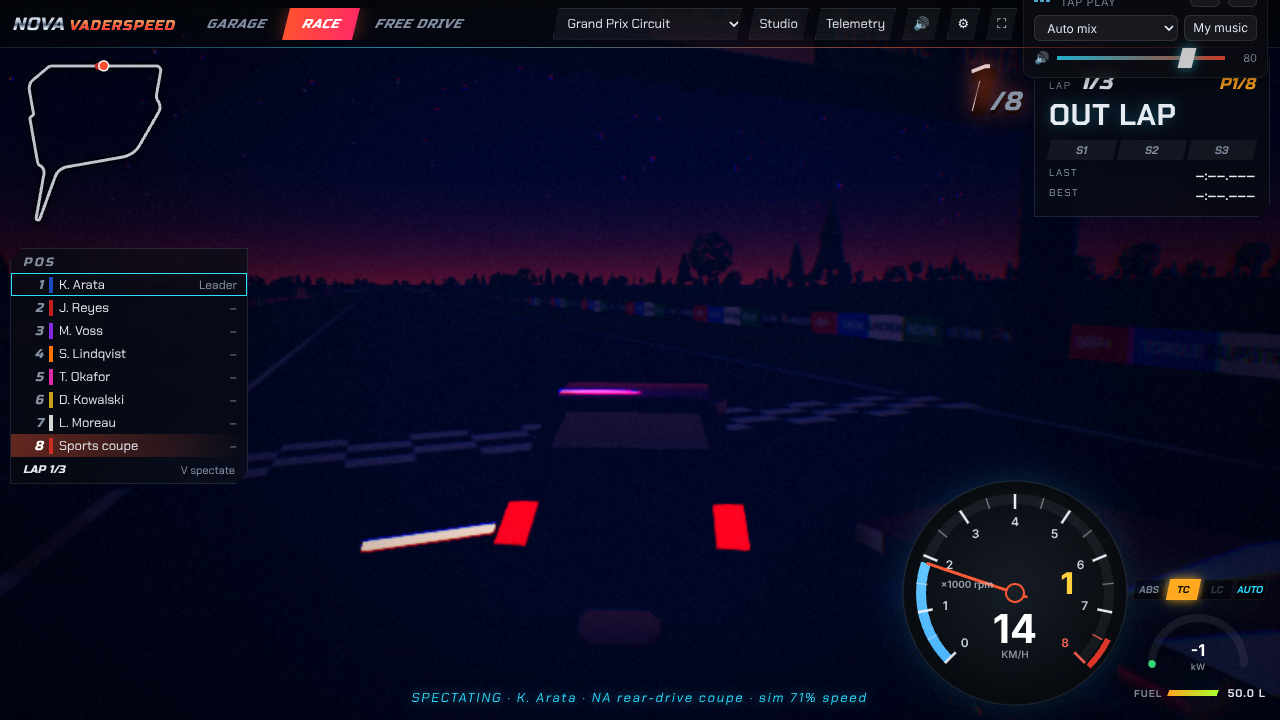
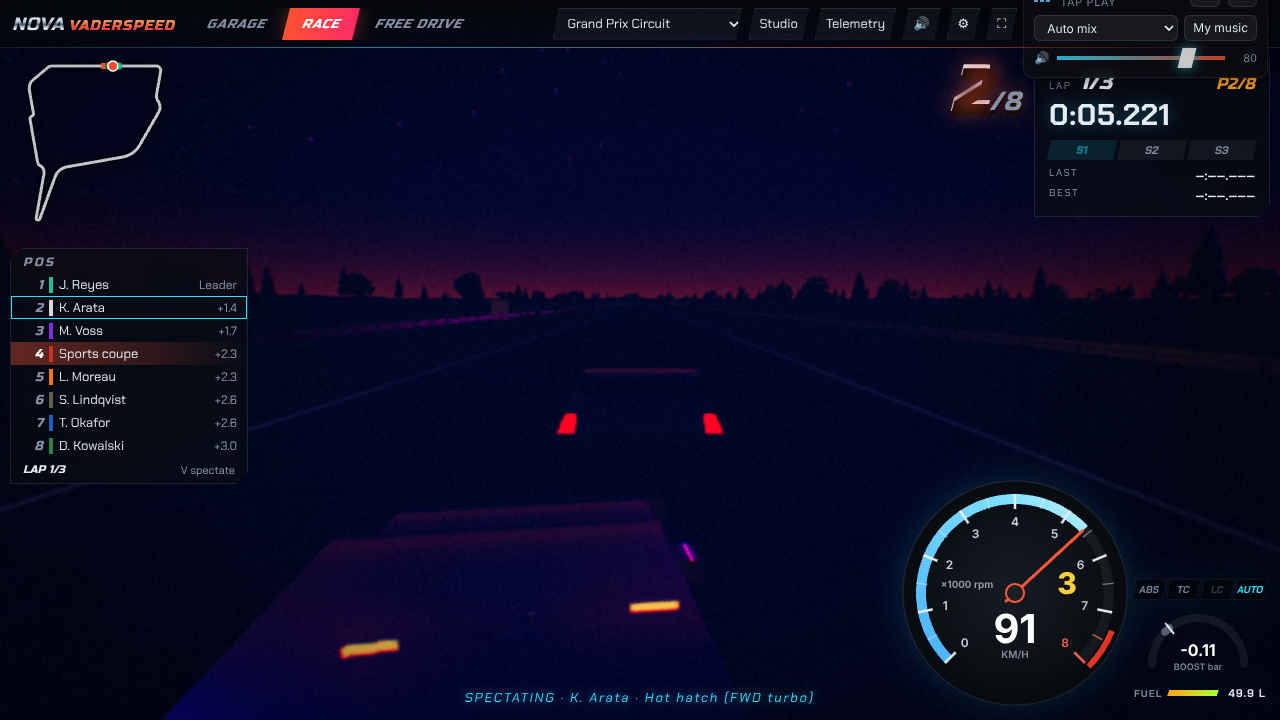
WIP: agent progress snapshot
Claude-Session: https://claude.ai/code/session_011tPxsG2AE8UxTqtFPSCmSL

diff --git a/car-sim/src/ui/fx/carfx.js b/car-sim/src/ui/fx/carfx.js
@@ -111,7 +111,7 @@ export class CarFX {
     const hl = visible && dark > 0.05;
     for (const [L, side] of [[this.head, 1], [this.head2, -1]]) {
       _v.copy(this.headLocal); _v.z = side * Math.max(0.45, Math.abs(this.headLocal.z || 0.6)); _v.x += 0.3; _v.applyMatrix4(root.matrixWorld);
-      L.pos.copy(_v); L.dir.copy(_fwd).addScaledVector(_up, -0.09).normalize(); L.intensity = hl ? 60 * dark : 0;
+      L.pos.copy(_v); L.dir.copy(_fwd).addScaledVector(_up, -0.09).normalize(); L.intensity = hl ? 16 * dark : 0;
     }
     _v.copy(this.tailLocal); _v.x -= 0.25; _v.applyMatrix4(root.matrixWorld);
     this.tailL.pos.copy(_v); this.tailL.dir.copy(_fwd).negate().addScaledVector(_up, -0.5).normalize(); this.tailL.intensity = visible ? (0.2 + brake * 1.2) * (1 + 4 * dark) : 0;

diff --git a/car-sim/src/ui/fx/lights.js b/car-sim/src/ui/fx/lights.js
@@ -47,7 +47,7 @@ for ( int fxi = 0; fxi < FX_MAX_LIGHTS; fxi ++ ) {
   IncidentLight fxl;
   fxl.direction = fxlv / max( fxd, 1e-3 );
   float fxcone = smoothstep( fxp.y, fxp.z, dot( - fxl.direction, fxLightDir[ fxi ] ) );
-  fxl.color = fxLightColor[ fxi ] * ( getDistanceAttenuation( fxd, fxp.x, fxp.w ) * fxcone );
+  fxl.color = fxLightColor[ fxi ] * ( min( getDistanceAttenuation( fxd, fxp.x, fxp.w ), 1.0 ) * fxcone );
   fxl.visible = true;
   RE_Direct( fxl, geometryPosition, geometryNormal, geometryViewDir, geometryClearcoatNormal, material, reflectedLight );
 }
